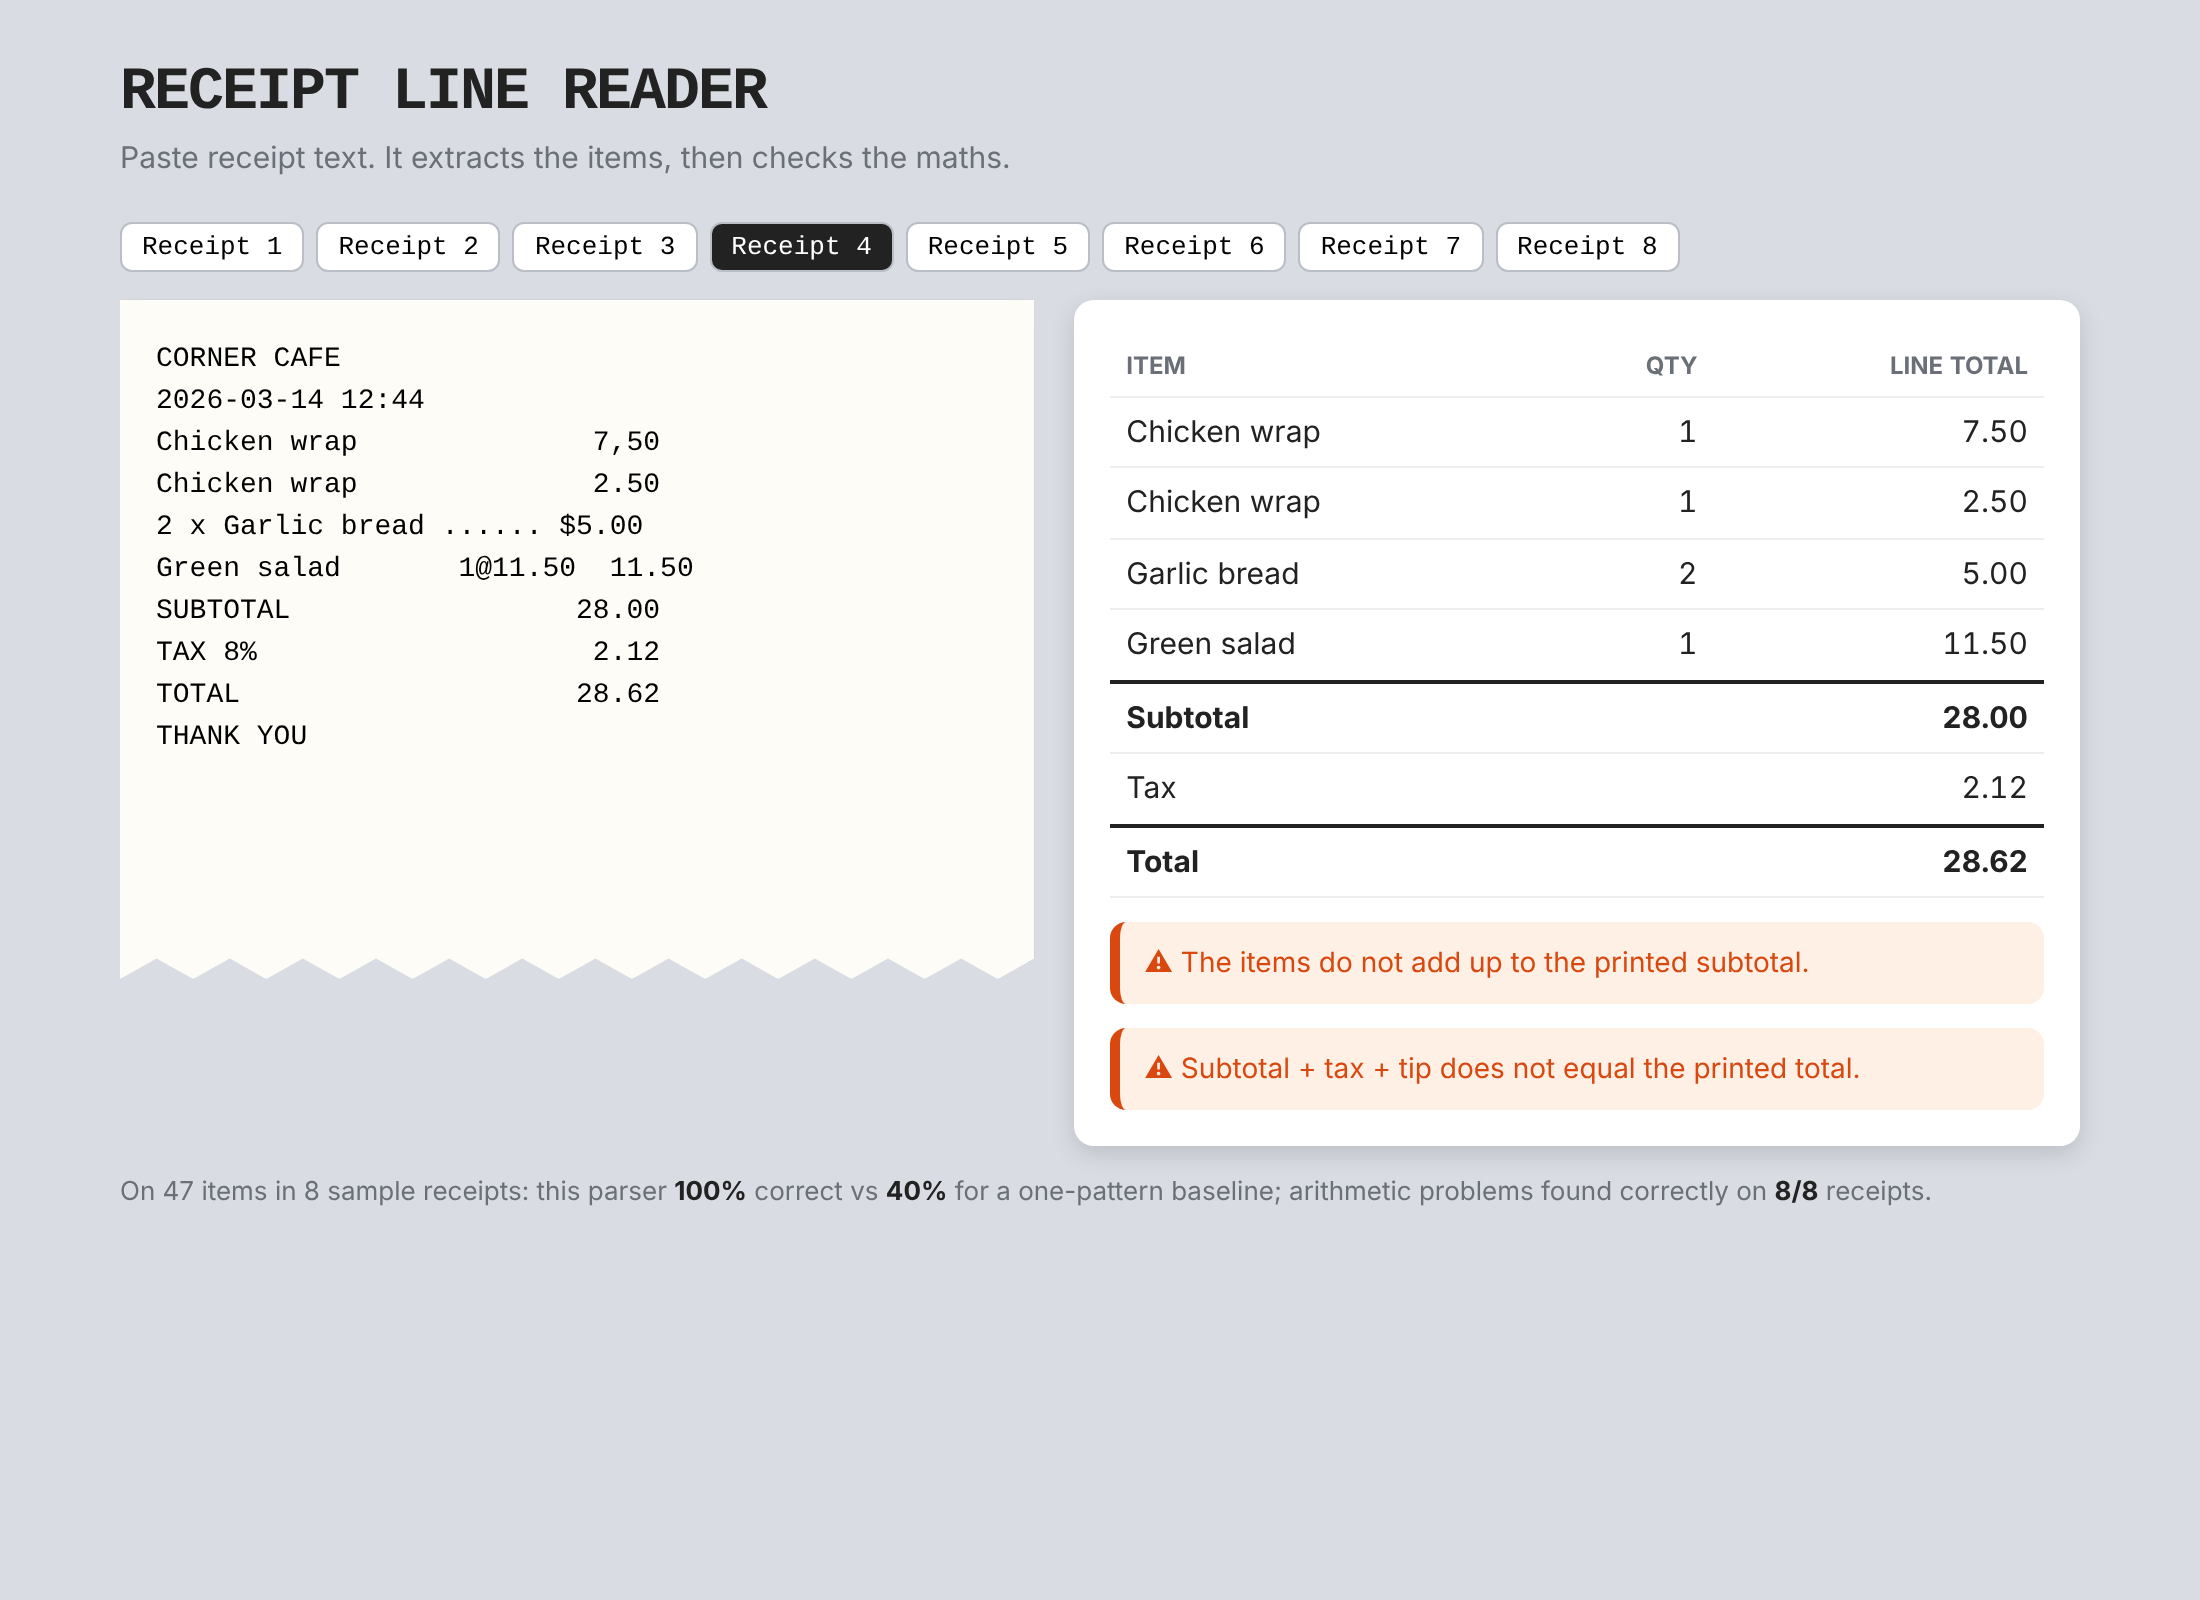
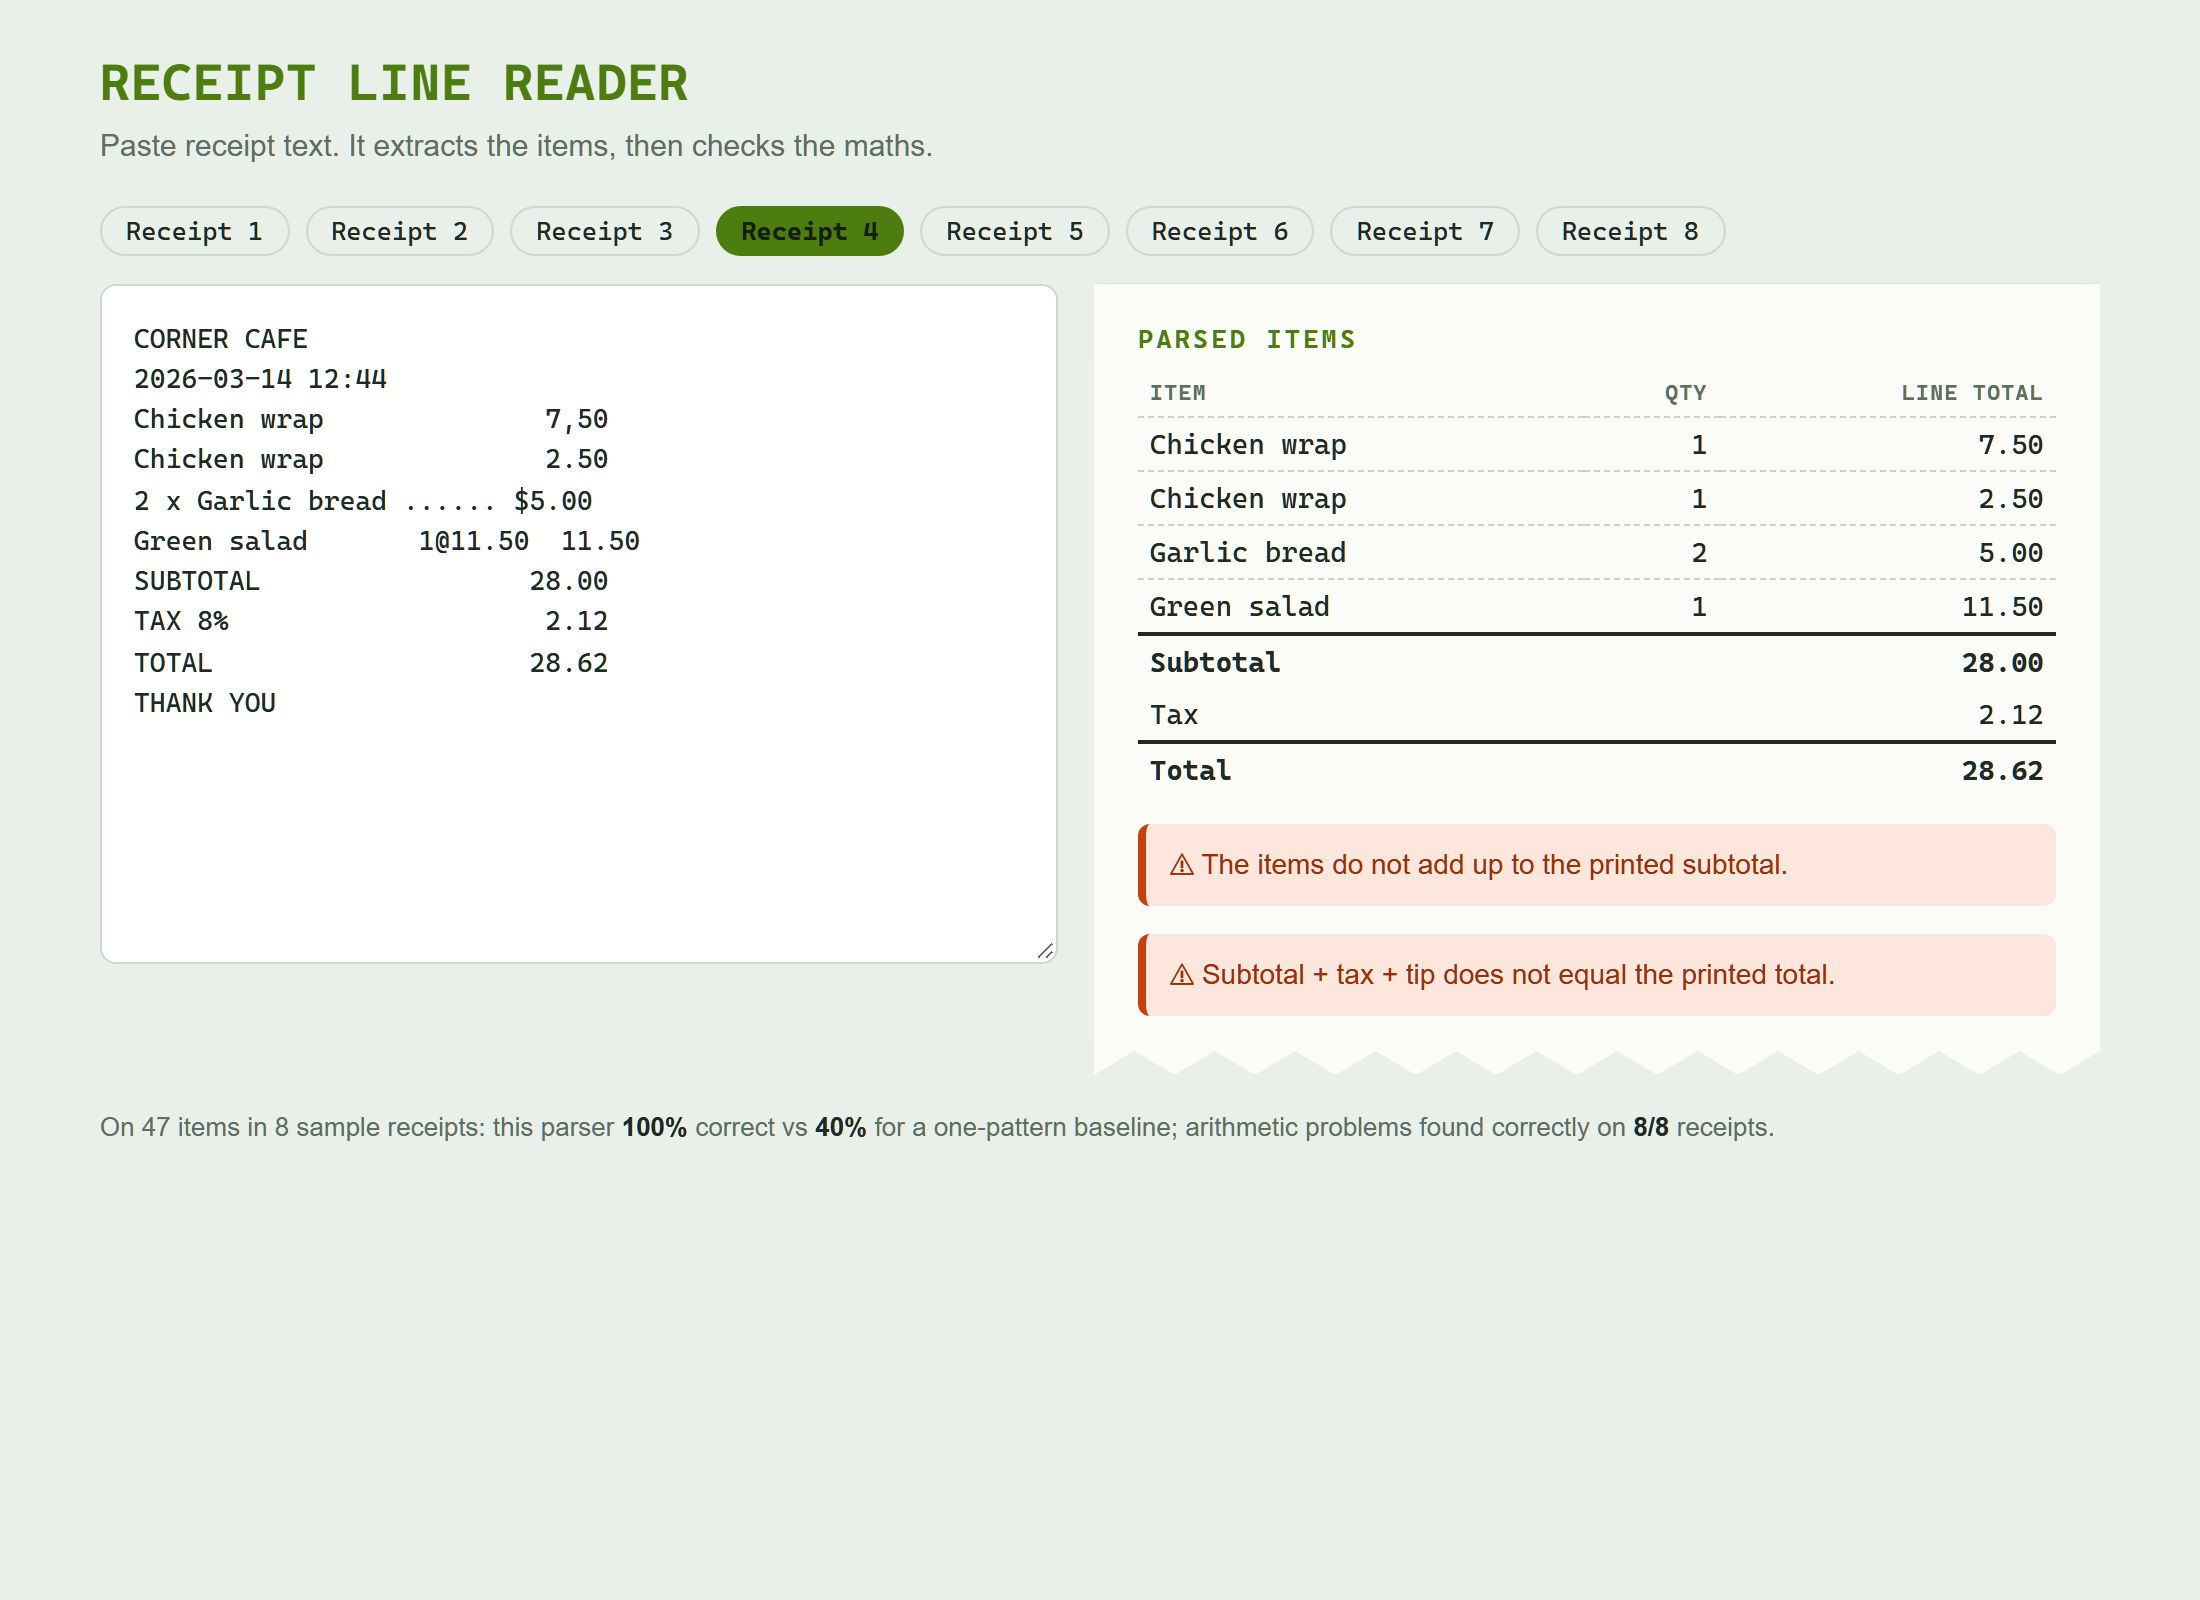
Redesign frontend: receipt-line-reader

Changed region(s): [[0.0309, 0.0312, 0.9582, 0.75], [0.7418, 0.375, 0.7727, 0.4062], [0.7418, 0.2188, 0.7727, 0.25]]

diff --git a/static/index.html b/static/index.html
@@ -1,21 +1,38 @@
 <!doctype html><html lang="en"><head><meta charset="utf-8"><meta name="viewport" content="width=device-width,initial-scale=1">
 <title>Receipt Line Reader</title>
 <style>
-:root{--bg:#d9dde3;--paper:#fdfcf7;--ink:#222;--warn:#d9480f;--ok:#2b8a3e;--mut:#6b7078}
-*{box-sizing:border-box}body{margin:0;background:var(--bg);color:var(--ink);font:15px/1.5 system-ui,sans-serif;padding:30px 18px}
-main{max-width:980px;margin:auto}h1{font:700 30px "Courier New",monospace;margin:0;letter-spacing:-1px}p.s{color:var(--mut);margin:4px 0 20px}
-.tabs{display:flex;gap:6px;flex-wrap:wrap;margin-bottom:14px}.tabs button{font:13px "Courier New",monospace;background:#fff;border:1px solid #b9bec7;border-radius:6px;padding:4px 10px;cursor:pointer}.tabs button.on{background:var(--ink);color:#fff}
-.grid{display:grid;grid-template-columns:1fr 1.1fr;gap:20px}@media(max-width:780px){.grid{grid-template-columns:1fr}}
-textarea{width:100%;height:340px;font:14px/1.5 "Courier New",monospace;background:var(--paper);border:0;padding:20px 18px;box-shadow:0 6px 16px #0003;resize:vertical;clip-path:polygon(0 0,100% 0,100% 97%,96% 100%,92% 97%,88% 100%,84% 97%,80% 100%,76% 97%,72% 100%,68% 97%,64% 100%,60% 97%,56% 100%,52% 97%,48% 100%,44% 97%,40% 100%,36% 97%,32% 100%,28% 97%,24% 100%,20% 97%,16% 100%,12% 97%,8% 100%,4% 97%,0 100%)}
-.card{background:#fff;border-radius:10px;padding:18px;box-shadow:0 4px 12px #0002}
-table{width:100%;border-collapse:collapse}td,th{padding:6px 8px;border-bottom:1px solid #eee;text-align:left}th{font-size:12px;text-transform:uppercase;color:var(--mut)}td.n,th.n{text-align:right;font-variant-numeric:tabular-nums}
-tr.sum td{font-weight:700;border-top:2px solid var(--ink)}.flag{margin-top:12px;padding:10px 12px;border-radius:8px;font-size:14px}.flag.bad{background:#fff0e6;color:var(--warn);border-left:5px solid var(--warn)}.flag.good{background:#ebfbee;color:var(--ok);border-left:5px solid var(--ok)}
-.m{font-size:13px;color:var(--mut);margin-top:14px}.m b{color:var(--ink)}
+:root{--bg:#18201b;--panel:#213027;--slip:#f6f7f2;--slip-ink:#1f2a24;--ink:#e8f1ea;--accent:#a3e635;--warn:#ff7a59;--ok:#7ee787;--mute:#93a598;--line:#30443a;color-scheme:dark}
+@media (prefers-color-scheme: light){:root:not([data-theme="dark"]){--bg:#e9efe9;--panel:#ffffff;--slip:#fbfcf8;--slip-ink:#1f2a24;--ink:#1f2a24;--accent:#4d7c0f;--warn:#c2410c;--ok:#2f7d3a;--mute:#5d6e62;--line:#cdd9ce;color-scheme:light}}
+:root[data-theme="light"]{--bg:#e9efe9;--panel:#ffffff;--slip:#fbfcf8;--slip-ink:#1f2a24;--ink:#1f2a24;--accent:#4d7c0f;--warn:#c2410c;--ok:#2f7d3a;--mute:#5d6e62;--line:#cdd9ce;color-scheme:light}
+:root[data-theme="dark"]{--bg:#18201b;--panel:#213027;--slip:#f6f7f2;--slip-ink:#1f2a24;--ink:#e8f1ea;--accent:#a3e635;--warn:#ff7a59;--ok:#7ee787;--mute:#93a598;--line:#30443a;color-scheme:dark}
+*{box-sizing:border-box}
+html,body{background:var(--bg)}
+body{margin:0;color:var(--ink);font:15px/1.5 Arial,Helvetica,sans-serif;padding:26px 16px 40px}
+main{max-width:1000px;margin:0 auto}
+h1{font:700 1.6rem "Cascadia Code","Cascadia Mono",Consolas,monospace;margin:0;letter-spacing:.02em;color:var(--accent)}
+p.s{color:var(--mute);margin:6px 0 18px}
+.tabs{display:flex;gap:8px;flex-wrap:wrap;margin-bottom:14px}
+.tabs button{font:13px "Cascadia Code","Cascadia Mono",monospace;background:transparent;color:var(--ink);border:1px solid var(--line);border-radius:999px;padding:4px 12px;cursor:pointer}
+.tabs button.on{background:var(--accent);color:#14200a;border-color:var(--accent);font-weight:700}
+.grid{display:grid;grid-template-columns:1fr 1.05fr;gap:18px;align-items:start}
+@media(max-width:780px){.grid{grid-template-columns:1fr}}
+textarea{width:100%;height:340px;font:13.5px/1.5 "Cascadia Code","Cascadia Mono",monospace;background:var(--panel);color:var(--ink);border:1px solid var(--line);border-radius:8px;padding:16px;resize:vertical}
+.slip{background:var(--slip);color:var(--slip-ink);padding:20px 22px 30px;position:relative;box-shadow:0 10px 22px #0005;clip-path:polygon(0 0,100% 0,100% calc(100% - 12px),96% 100%,92% calc(100% - 12px),88% 100%,84% calc(100% - 12px),80% 100%,76% calc(100% - 12px),72% 100%,68% calc(100% - 12px),64% 100%,60% calc(100% - 12px),56% 100%,52% calc(100% - 12px),48% 100%,44% calc(100% - 12px),40% 100%,36% calc(100% - 12px),32% 100%,28% calc(100% - 12px),24% 100%,20% calc(100% - 12px),16% 100%,12% calc(100% - 12px),8% 100%,4% calc(100% - 12px),0 100%)}
+.slip h2{margin:0 0 8px;font:700 13px "Cascadia Code","Cascadia Mono",monospace;text-transform:uppercase;letter-spacing:.12em;color:#4d7c0f}
+table{width:100%;border-collapse:collapse;font:14px "Cascadia Code","Cascadia Mono",monospace}
+td,th{padding:5px 6px;border-bottom:1px dashed #c9d2c8;text-align:left}
+th{font-size:11px;text-transform:uppercase;letter-spacing:.06em;color:#5d6e62}
+td.n,th.n{text-align:right;font-variant-numeric:tabular-nums}
+tr.sum td{font-weight:700;border-top:2px solid var(--slip-ink);border-bottom:0}
+.flag{margin-top:14px;padding:10px 12px;border-radius:6px;font-size:14px}
+.flag.bad{background:#fde7dc;color:#9a2f08;border-left:4px solid #c2410c}
+.flag.good{background:#e3f5e6;color:#1f5a28;border-left:4px solid #2f7d3a}
+.m{font-size:13px;color:var(--mute);margin-top:16px}.m b{color:var(--ink)}
 </style></head><body><main>
 <h1>RECEIPT LINE READER</h1><p class="s">Paste receipt text. It extracts the items, then checks the maths.</p>
 <div class="tabs" id="tabs"></div>
 <div class="grid"><textarea id="tx" spellcheck="false"></textarea>
-<div class="card"><table><thead><tr><th>Item</th><th class="n">Qty</th><th class="n">Line total</th></tr></thead><tbody id="rows"></tbody></table><div id="fl"></div></div></div>
+<div class="slip"><h2>Parsed items</h2><table><thead><tr><th>Item</th><th class="n">Qty</th><th class="n">Line total</th></tr></thead><tbody id="rows"></tbody></table><div id="fl"></div></div></div>
 <p class="m" id="ev"></p></main>
 <script>
 const $=i=>document.getElementById(i);let tm;const $$=c=>(c/100).toFixed(2);
